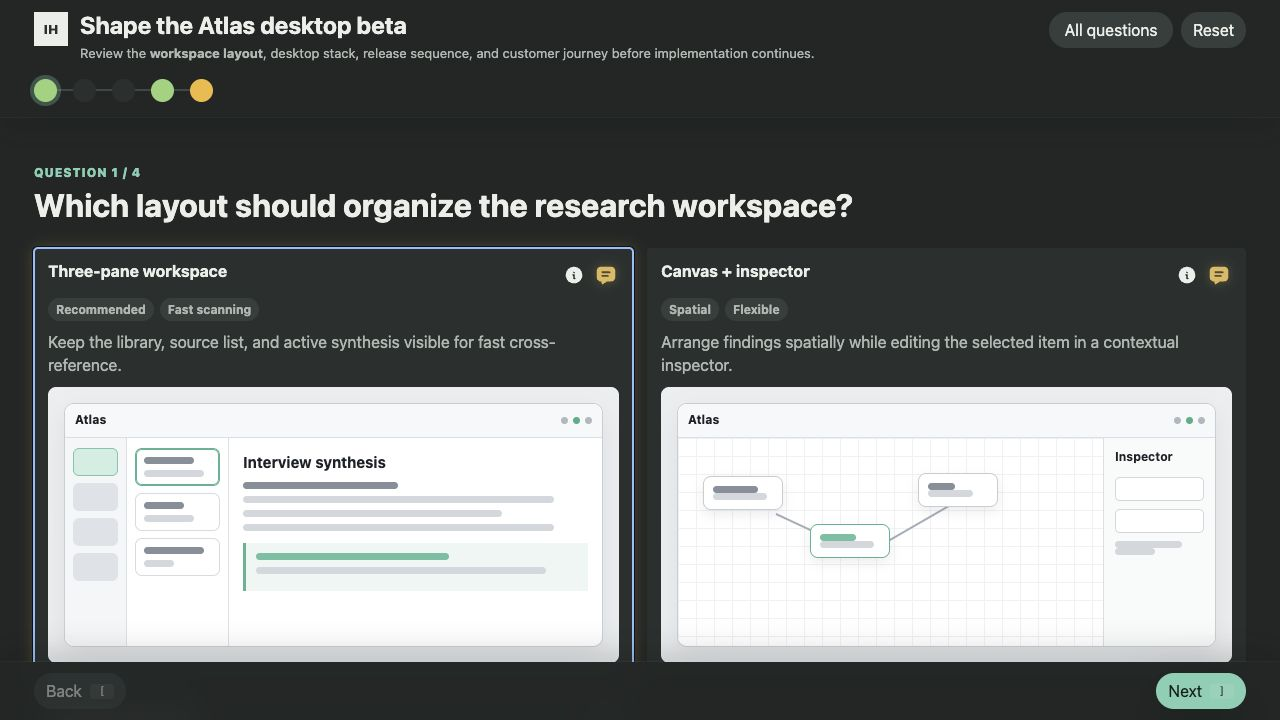
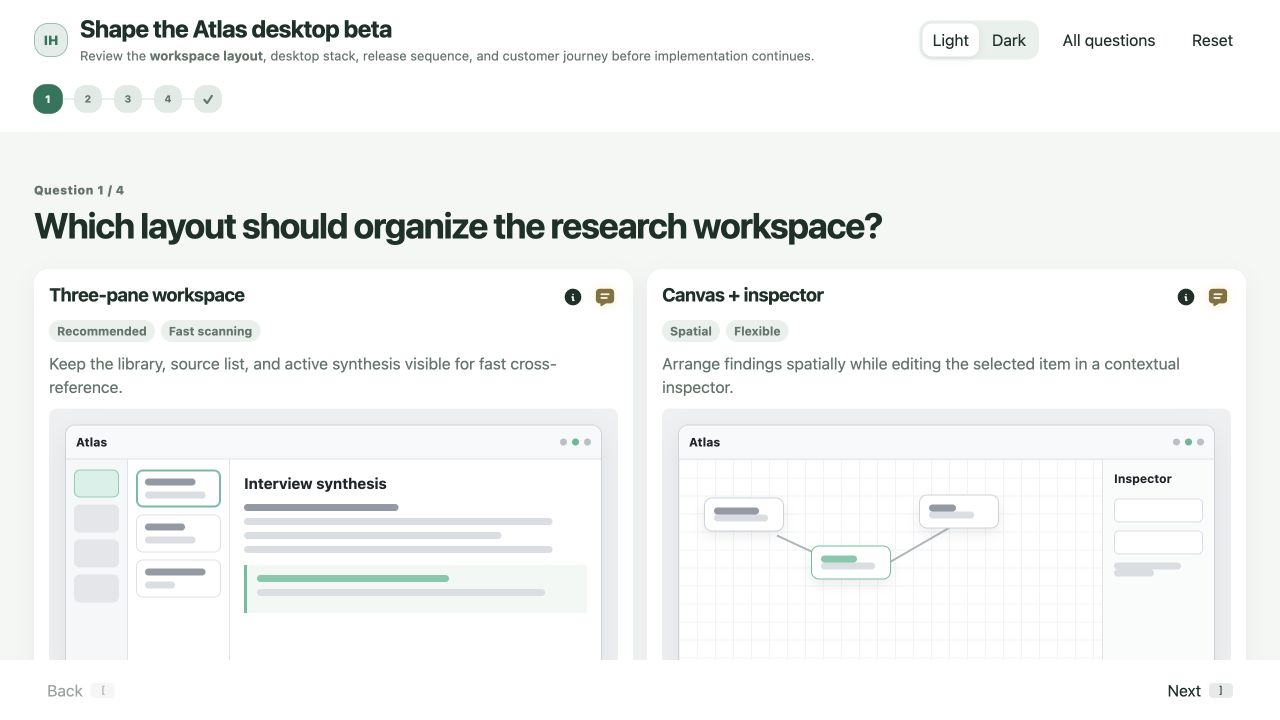
Refresh project introduction and release flow

diff --git a/demo/interview.html b/demo/interview.html
@@ -117,7 +117,7 @@
           },
           {
             type: "categorize",
-            prompt: "Place each product capability in the release sequence.",
+            prompt: "Review the release sequence as a board or table.",
             categories: ["Ship in beta", "Next release", "Later"],
             cards: [
               { title: "Unified source inbox", tags: ["Beta foundation"], markdown: "Import PDFs, saved web pages, and interview notes into one searchable queue with provenance and processing state.", markdownTooltip: "Start with PDF, web capture, and pasted notes; email and cloud-drive ingestion can follow.", htmlPreview: roadmapPreviews.inbox },
@@ -150,9 +150,30 @@
       });
 
       window.addEventListener("keydown", (event) => {
-        if (event.key.toLowerCase() !== "t") return;
-        const target = document.querySelector('.ih-evaluation-detail-button[data-detail-title="12 MB"]');
-        target?.dispatchEvent(new MouseEvent("mouseover", { bubbles: true }));
+        const key = event.key.toLowerCase();
+        if (key === "t") {
+          const target = document.querySelector('.ih-evaluation-detail-button[data-detail-title="12 MB"]');
+          target?.dispatchEvent(new MouseEvent("mouseover", { bubbles: true }));
+        }
+        if (key === "r") {
+          const placements = new Map([
+            ["Unified source inbox", "Ship in beta"],
+            ["Evidence board", "Ship in beta"],
+            ["Citation-backed brief editor", "Ship in beta"],
+            ["Review and approval queue", "Next release"],
+            ["Export packages", "Next release"],
+            ["Workspace roles and audit log", "Next release"],
+            ["Continuous source monitoring", "Later"],
+            ["Public API and webhooks", "Later"]
+          ]);
+          document.querySelectorAll(".ih-bucket-card").forEach((card) => {
+            const bucket = placements.get(card.querySelector("h3")?.textContent?.trim());
+            if (!bucket) return;
+            [...card.querySelectorAll(".ih-move-option")]
+              .find((button) => button.textContent.trim() === bucket)
+              ?.click();
+          });
+        }
       });
 
     </script>

diff --git a/demo/build-readme-gif.py b/demo/build-readme-gif.py
@@ -11,7 +11,7 @@ OUTPUT = ROOT / "assets" / "interview-harness-demo.gif"
 FRAME_FILES = [
     "01-layout-decision.png",
     "02-technology-decision.png",
-    "03-release-board.png",
+    "03-release-table.png",
     "04-customer-flow.png",
 ]
 
@@ -27,9 +27,9 @@ CAPTIONS = [
         "Comment on any option or criterion wherever nuance matters.",
     ),
     (
-        "SHAPE SCOPE VISUALLY",
-        "Organize the plan in one pass",
-        "Sort, defer, or leave decisions open without writing a brief.",
+        "REVIEW SCOPE YOUR WAY",
+        "Switch between board and table",
+        "Filter the full plan by release bucket without losing context.",
     ),
     (
         "CORRECT THE AGENT’S MODEL",
@@ -109,19 +109,19 @@ def add_caption(image, caption, alpha, slide):
     draw.rounded_rectangle(
         (left, top, right, bottom),
         radius=16,
-        fill=(20, 27, 32, round(opacity * 0.9)),
-        outline=(255, 255, 255, round(opacity * 0.12)),
+        fill=(248, 253, 250, round(opacity * 0.95)),
+        outline=(165, 207, 187, round(opacity * 0.62)),
         width=1,
     )
     draw.rounded_rectangle(
         (left + 18, top + 22, left + 22, bottom - 22),
         radius=2,
-        fill=(104, 210, 170, opacity),
+        fill=(58, 143, 105, opacity),
     )
     text_left = left + 40
-    draw.text((text_left, top + 19), kicker, font=KICKER_FONT, fill=(123, 225, 187, opacity))
-    draw.text((text_left, top + 42), title, font=TITLE_FONT, fill=(255, 255, 255, opacity))
-    draw.text((text_left, top + 88), body, font=BODY_FONT, fill=(221, 227, 231, opacity))
+    draw.text((text_left, top + 19), kicker, font=KICKER_FONT, fill=(43, 125, 91, opacity))
+    draw.text((text_left, top + 42), title, font=TITLE_FONT, fill=(29, 48, 40, opacity))
+    draw.text((text_left, top + 88), body, font=BODY_FONT, fill=(74, 91, 84, opacity))
     return Image.alpha_composite(image.convert("RGBA"), overlay).convert("RGB")
 
 

diff --git a/README.md b/README.md
@@ -1,22 +1,34 @@
 # Interview Harness
 
-**Agents do better work when users can react to something concrete.**
+**Turn an agent’s questions into one clear visual decision session.**
+
+Interview Harness is an authoring skill and browser library for decisions that are difficult to resolve in chat. An AI agent creates a temporary local interview with concrete options, comparisons, plans, flows, or drafts; you review them in one session and return a concise record of your selections, changes, and comments.
 
 ![Interview Harness showing layout choices, contextual comments, technology comparison, release planning, and flow editing](assets/interview-harness-demo.gif)
 
-Interview Harness turns important clarifying questions into one visual session. An agent generates a local HTML file with concrete options, comparisons, plans, flows, and editable drafts; the user responds once, and the agent gets a concise answer summary.
+Concrete material is easier to evaluate than a blank prompt. It helps crystallize a user’s vision and intent before implementation begins. You can compare alternatives, correct assumptions, combine parts of different proposals, and attach comments to the exact item they concern. The agent receives a coherent decision context it can act on, preserving nuance and reducing avoidable rework.
 
-There is no app to deploy, build step to run, or server to keep alive. The user opens the generated file directly in a browser.
+Each interview is a readable HTML file opened directly in your browser. It requires no account, hosted application, deployment, or backend. Interview Harness does not upload your responses; state remains in the browser until you copy or export it.
 
-## Why Interview Harness
+Interview Harness is free and open source under the [MIT License](LICENSE). The library and authoring skills are public, readable, and unminified.
 
-- **Recognition over recall.** Users react to previews and proposals instead of describing everything from scratch.
-- **One complete session.** Agents collect every material decision they can identify before continuing the work.
-- **Nuance stays attached.** Users can comment on options—including ones they decline—and on structured parts of a question.
-- **Clean handoff.** Only selections, edits, changes, and comments appear in the exported answer.
-- **Disposable by design.** Each interview is one readable HTML file backed by a major-pinned CDN script.
+## What it supports
 
-## Give It to an Agent
+A single interview can combine several forms of review:
+
+| Type | Use |
+| --- | --- |
+| `choice` | Select one or several options from plain or visual cards |
+| `compare` | Evaluate alternatives against shared criteria |
+| `categorize` | Organize items into buckets using board or table views |
+| `flow` | Review and correct a proposed process or journey |
+| `edit` | Revise a proposed text or code artifact |
+
+Cards can include Markdown, labels, tooltips, and inline or file-based previews. Comments can be attached to options, comparison criteria, buckets, flow elements, and edits—including items you do not select.
+
+The library handles layout, navigation, progress, selection, editing, local state, Light and Dark themes, and concise text export. The generated file contains the interview content and loads the exact runtime version used to create it.
+
+## Give it to an agent
 
 Install the authoring skill:
 
@@ -24,55 +36,16 @@ Install the authoring skill:
 npx skills add apurin/interview-harness --list
 ```
 
-The skill teaches an agent when an interview is worthwhile, which questions belong in it, and how to generate the file. The full authoring guide is also readable at [skills/interview-harness/SKILL.md](skills/interview-harness/SKILL.md).
+Without installing anything, tell your agent: “Run an interactive interview for this project using the instructions in the [latest Interview Harness skill](https://cdn.jsdelivr.net/gh/apurin/interview-harness@latest/skills/interview-harness/SKILL.md).” Try it with a new or existing project in about a minute.
 
-## Author One Directly
+The skill teaches the agent when an interview is useful, which questions belong in it, and how to generate the local HTML file. Open the file, complete the interview, and return its exported answer to the agent.
 
-```html
-<script src="https://cdn.jsdelivr.net/gh/apurin/interview-harness@4/interview-harness.js"></script>
-<script>
-  InterviewHarness.mount({
-    title: "Shape the beta",
-    markdownIntro: "Resolve the **product direction** before implementation continues.",
-    questions: [
-      {
-        type: "choice",
-        prompt: "Which experience should anchor the beta?",
-        cards: [
-          {
-            title: "Command center",
-            tags: ["Recommended"],
-            markdown: "A dense operational workspace for **experienced teams**."
-          },
-          {
-            title: "Guided inbox",
-            markdown: "A prioritized daily workflow with faster onboarding."
-          }
-        ]
-      }
-    ]
-  });
-</script>
-```
-
-Save the file and open it directly in a browser. No hosting is required.
-
-## Question Types
-
-| Type | Collects |
-| --- | --- |
-| `choice` | One or several selections from plain or rich options |
-| `compare` | One decision across a shared comparison matrix |
-| `categorize` | A categorized scope or plan |
-| `flow` | Corrections to a directed process or journey |
-| `edit` | Changes to a text or code artifact |
-
-Cards accept Markdown, Markdown tooltips, tags, and inline or file-based HTML previews. The library supplies the responsive layout, navigation, progress, comments, editing, state, and text export. Interviews open in Light mode by default; a user’s Light/Dark choice is shared across same-origin interviews and carried between sequential local files opened in the same tab.
+The complete authoring reference is available in [skills/interview-harness/SKILL.md](skills/interview-harness/SKILL.md).
 
 <details>
 <summary>Maintaining the project</summary>
 
-The source is intentionally readable and unminified. Project policy lives in [AGENTS.md](AGENTS.md).
+Maintenance policy lives in [AGENTS.md](AGENTS.md).
 
 The README animation source and capture workflow live in [demo/](demo/README.md).
 
@@ -82,6 +55,6 @@ Release with:
 node scripts/release.mjs X.Y.Z
 ```
 
-The release script renders the skills, updates major-pinned URLs, commits, tags, pushes, and refreshes jsDelivr.
+The release script renders the skills with an exact-version runtime URL, commits and tags the release, pushes it, and refreshes the latest skill on jsDelivr.
 
 </details>

diff --git a/demo/README.md b/demo/README.md
@@ -17,11 +17,11 @@ Serve the repository root temporarily:
 python3 -m http.server 8765 --bind 127.0.0.1
 ```
 
-Open `http://127.0.0.1:8765/demo/interview.html` with a 1280×720 viewport. Keep the interview in paged mode and capture these states.
+Open `http://127.0.0.1:8765/demo/interview.html` with a 1280×720 viewport. Use the Light theme, keep the interview in paged mode, and capture these states.
 
 1. `01-layout-decision.png`: select **Three-pane workspace**. Comment “Keep the source list narrow, and let the library rail collapse.” on it and “Borrow the flexible inspector for advanced users.” on **Canvas + inspector**. Close every editor.
 2. `02-technology-decision.png`: select **Tauri**. Comment “Best balance for the beta; keep Rust behind a narrow command layer.” on its column and “Borrow its native menu behavior on macOS.” on SwiftUI. Comment “Installer size matters for trial conversion.” on **Installer footprint** and “Keep platform-specific behavior behind one interface.” on **Native integrations**. Close every editor, then hover **~12 MB** to show its installer-footprint detail. Pressing `T` performs the same one-shot hover for deterministic capture.
-3. `03-release-board.png`: move **Unified source inbox**, **Evidence board**, and **Citation-backed brief editor** to **Ship in beta**; **Review and approval queue**, **Export packages**, and **Workspace roles and audit log** to **Next release**; and **Continuous source monitoring** and **Public API and webhooks** to **Later**. Comment “Keep approvals lightweight enough for two-person teams.” on Review and approval queue and “Start with outbound webhooks before write APIs.” on Public API and webhooks. Close every editor, then horizontally align the board so all three populated columns are visible.
+3. `03-release-table.png`: move **Unified source inbox**, **Evidence board**, and **Citation-backed brief editor** to **Ship in beta**; **Review and approval queue**, **Export packages**, and **Workspace roles and audit log** to **Next release**; and **Continuous source monitoring** and **Public API and webhooks** to **Later**. Pressing `R` performs the same placement for deterministic capture. Comment “Keep approvals lightweight enough for two-person teams.” on Review and approval queue and “Start with outbound webhooks before write APIs.” on Public API and webhooks. Close every editor, then switch to **Table**.
 4. `04-customer-flow.png`: wait for the graph to finish arranging. Comment “The weekly brief is the retention moment.” on the full flow and “This is the first meaningful activation event.” on **Create first synthesis**. Close every editor, deselect the node, and return the page to the top before capture.
 
 Capture the full viewport without browser chrome. Do not crop the PNGs manually; the build script applies the shared crop.

diff --git a/AGENTS.md b/AGENTS.md
@@ -16,7 +16,7 @@ Keep generated interview pages cheap to author. Move reusable layout, behavior, 
 ## Release Policy
 
 - Release with `node scripts/release.mjs X.Y.Z`.
-- The release script sets `VERSION`, renders skills from templates, keeps shared jsDelivr URLs on the active major alias, commits release files, tags `vX.Y.Z`, pushes `main` and the tag, and refreshes jsDelivr.
+- The release script sets `VERSION`, renders skills with the exact `vX.Y.Z` jsDelivr runtime URL, commits release files, tags `vX.Y.Z`, pushes `main` and the tag, refreshes the `@latest` skill URLs, and verifies their published content.
 - Update skill templates when the public authoring surface changes; do not hand-edit generated skill files for release content.
 
 ## Output Direction
